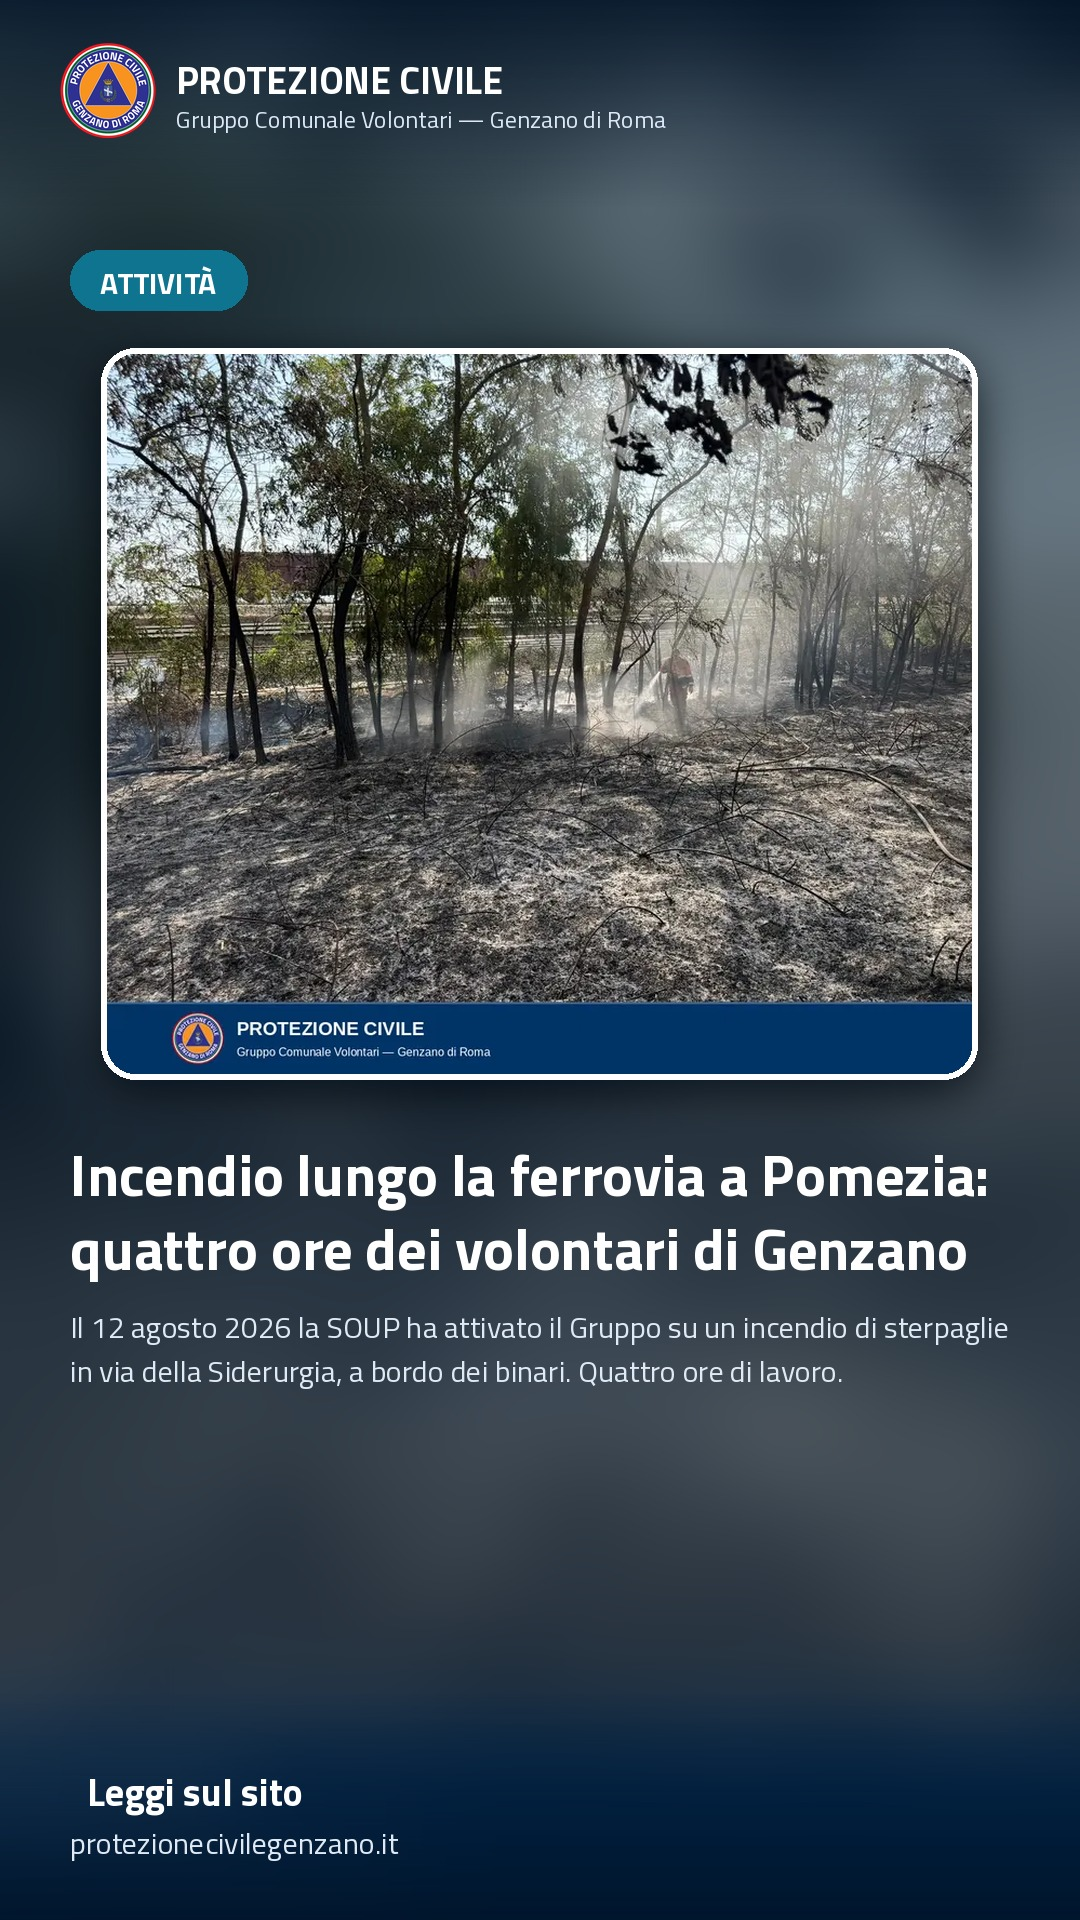
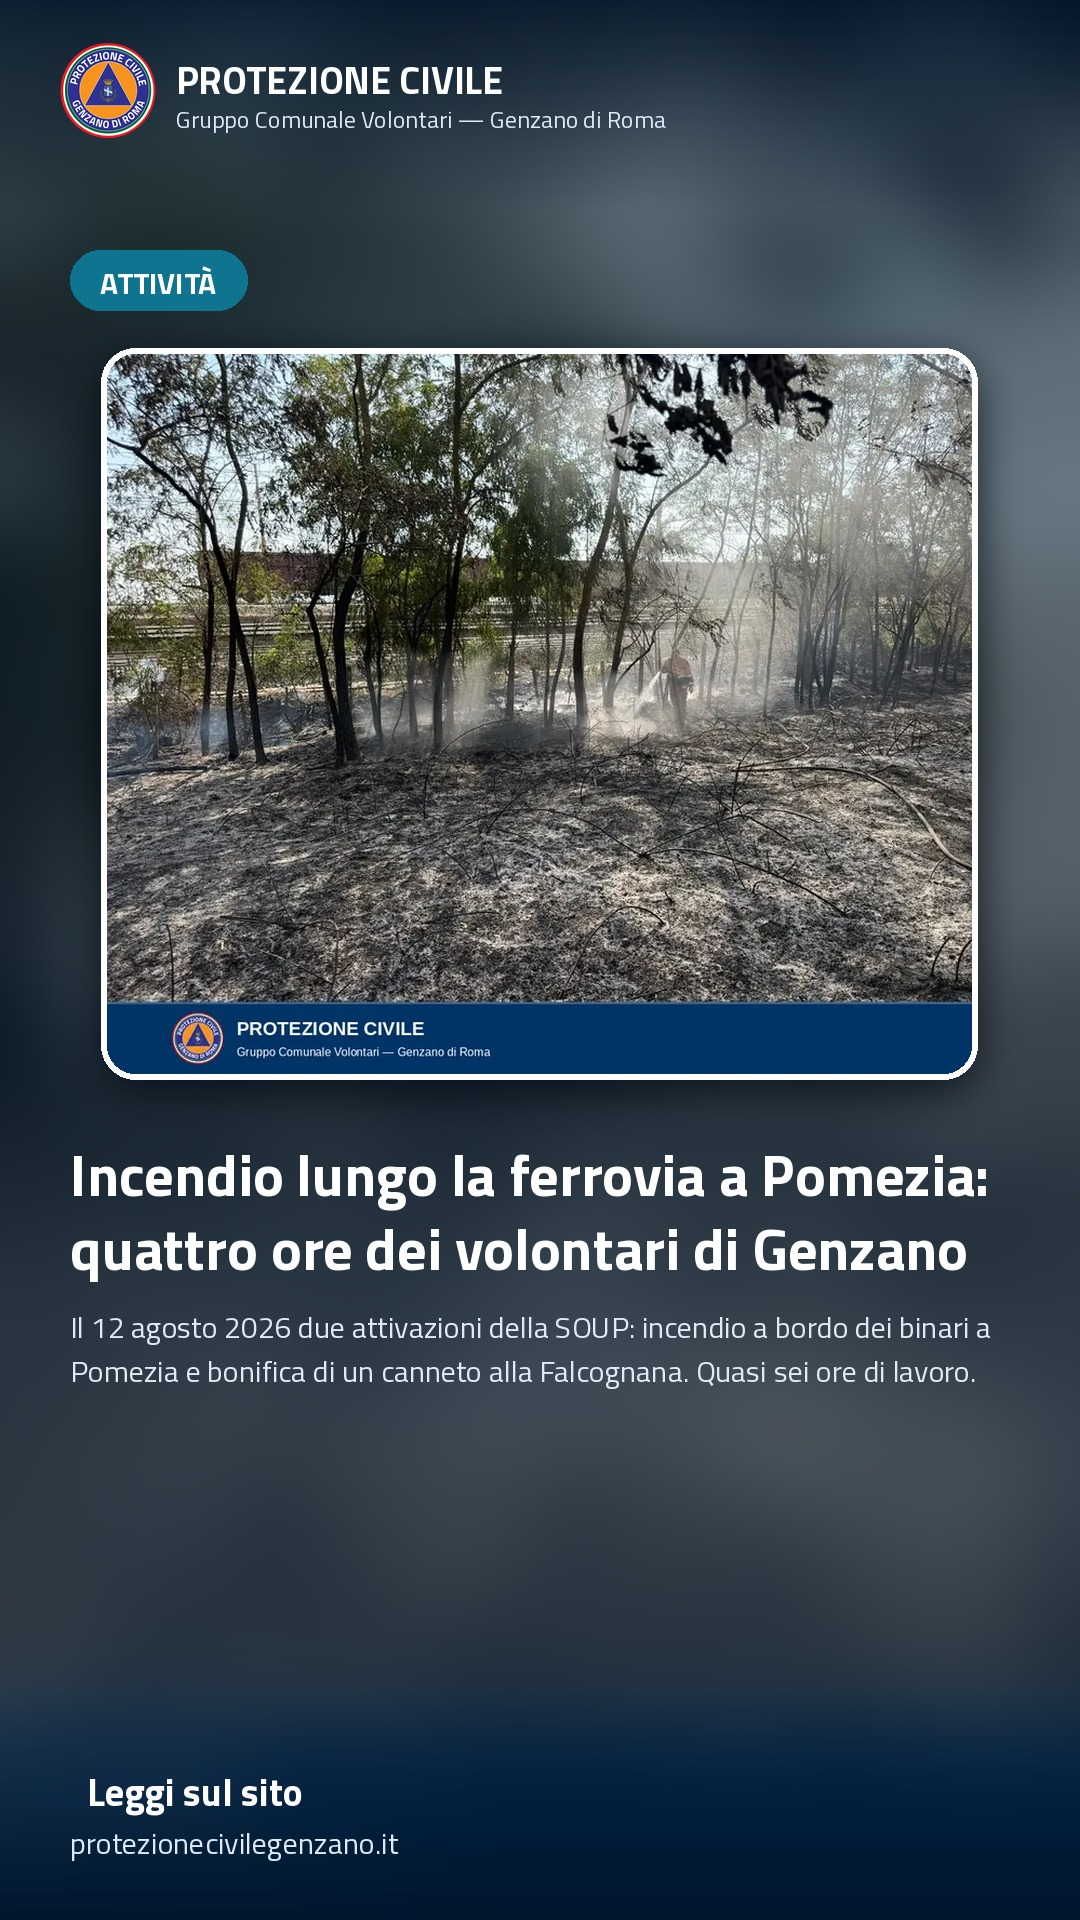
Pomezia: aggiunta la seconda uscita della stessa sera (Falcognana) (#825)
Seconda attivazione SOUP della serata del 12 agosto: bonifica di un canneto in via della Falcognana, poco meno di due ore. Orari arrotondati, nessun nome di volontario, slide social allineate.

Changed region(s): [[0.0611, 0.6875, 0.9167, 0.7188]]

diff --git a/content/comunicazioni/2026-08-12-incendio-pomezia-siderurgia-ferrovia.md b/content/comunicazioni/2026-08-12-incendio-pomezia-siderurgia-ferrovia.md
@@ -1,14 +1,14 @@
 ---
 title: "Incendio lungo la ferrovia a Pomezia: quattro ore dei volontari di Genzano"
 date: 2026-08-12T00:04:00+02:00
-description: "Il 12 agosto 2026 la SOUP ha attivato il Gruppo su un incendio di sterpaglie in via della Siderurgia, a bordo dei binari. Quattro ore di lavoro."
+description: "Il 12 agosto 2026 due attivazioni della SOUP: incendio a bordo dei binari a Pomezia e bonifica di un canneto alla Falcognana. Quasi sei ore di lavoro."
 badge: "Attività"
 priorita: "normale"
 autore: "Gruppo Comunale Volontari PC Genzano"
 image: "/images/2026-08-12-incendio-pomezia-siderurgia-ferrovia.webp"
 image_alt: "Cover dell'articolo: Incendio lungo la ferrovia a Pomezia: quattro ore dei volontari di Genzano"
 scadenza: ""
-area: "Pomezia (RM)"
+area: "Pomezia (RM) e Roma"
 allegati: []
 draft: false
 lis_section: "rischio-incendio"
@@ -19,9 +19,10 @@ social_punti:
   - "Il Gruppo di Genzano attivato dalla SOUP nel primo pomeriggio e rientrato in serata: quasi quattro ore di lavoro."
   - "In campo autobotte e pickup antincendio, insieme a Vigili del Fuoco, Polizia Locale, Carabinieri, Polizia e ai gruppi di Ariccia e Albano Laziale."
   - "Nelle stesse ore la circolazione dei treni tra Pomezia e Campoleone è rimasta sospesa."
+  - "In serata una seconda chiamata per la bonifica di un canneto in via della Falcognana, a Roma: quasi sei ore di lavoro in tutto."
 ---
 
-Nel pomeriggio di **mercoledì 12 agosto 2026** un incendio di sterpaglie si è sviluppato in **via della Siderurgia, a Pomezia**, lungo la fascia di vegetazione che costeggia la linea ferroviaria. Il **Gruppo Comunale Volontari di Protezione Civile di Genzano di Roma** è stato attivato dalla **SOUP**, la sala operativa regionale antincendio, e ha lavorato sul posto per **quasi quattro ore**.
+Nel pomeriggio di **mercoledì 12 agosto 2026** un incendio di sterpaglie si è sviluppato in **via della Siderurgia, a Pomezia**, lungo la fascia di vegetazione che costeggia la linea ferroviaria. Il **Gruppo Comunale Volontari di Protezione Civile di Genzano di Roma** è stato attivato dalla **SOUP**, la sala operativa regionale antincendio, e ha lavorato sul posto per **quasi quattro ore**. In serata è arrivata una seconda chiamata, per la bonifica di un canneto in via della Falcognana, a Roma.
 
 ## Come si è svolto l'intervento
 
@@ -67,6 +68,16 @@ I **droni** non servono a spegnere: servono a **vedere**. Dall'alto si individua
 Delle quasi quattro ore di intervento, la fase più lunga non è stata lo spegnimento delle fiamme, ma la **bonifica**: bagnare a fondo il terreno percorso dal fuoco, rivoltare la lettiera, spegnere le braci nei ceppi e alla base dei tronchi.
 
 È il lavoro meno visibile e il più necessario. Una brace lasciata sotto la cenere, con il vento del pomeriggio, può far ripartire il fronte a distanza di ore, in un punto dove non c'è più nessuno a sorvegliare. Un incendio è chiuso quando il terreno è freddo, non quando la fiamma si abbassa.
+
+## La stessa sera, una seconda chiamata
+
+L'intervento di Pomezia si chiude verso le 19. Pochi minuti dopo arriva una **seconda attivazione della SOUP**: la squadra riparte con l'autobotte e il pickup verso **via della Falcognana**, a Roma, dove il fuoco ha interessato un **canneto**. I volontari arrivano sul posto verso le 19.45, lavorano alla bonifica e sono liberi in rientro poco dopo le 20. L'intervento si chiude **verso le 20.30**: **poco meno di due ore**.
+
+La bonifica di un canneto è un lavoro paziente. Le canne bruciano in fretta e in superficie il fronte sembra spento, ma il calore resta a lungo nella lettiera fitta e alla base dei fusti. Basta il vento della sera perché una brace rimasta sotto rimetta in piedi la fiamma. Per questo si bagna a fondo il terreno e non ci si ferma alla vegetazione in vista.
+
+È la stessa strada dove, il 9 agosto, [il fuoco aveva percorso dieci ettari](/comunicazioni/2026-08-10-incendi-pomezia-falcognana-agosto-2026/).
+
+Sommando le due uscite, la giornata dei volontari si è chiusa con **quasi sei ore** di lavoro.
 
 ## Cosa può fare chi vede un incendio
 
